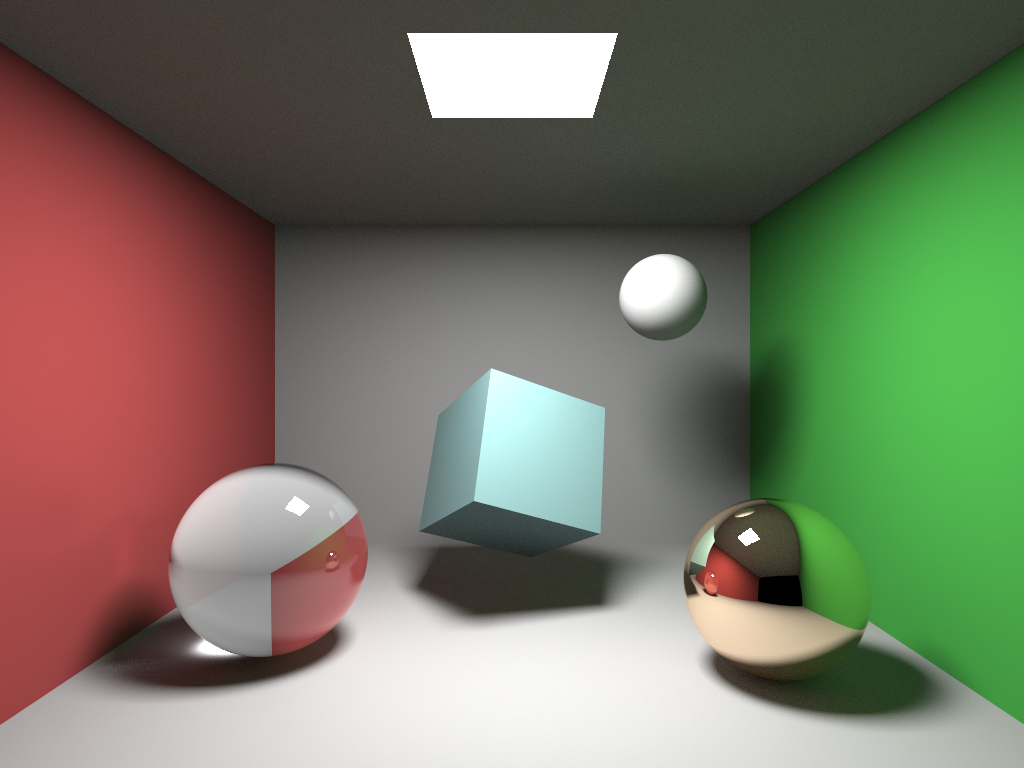
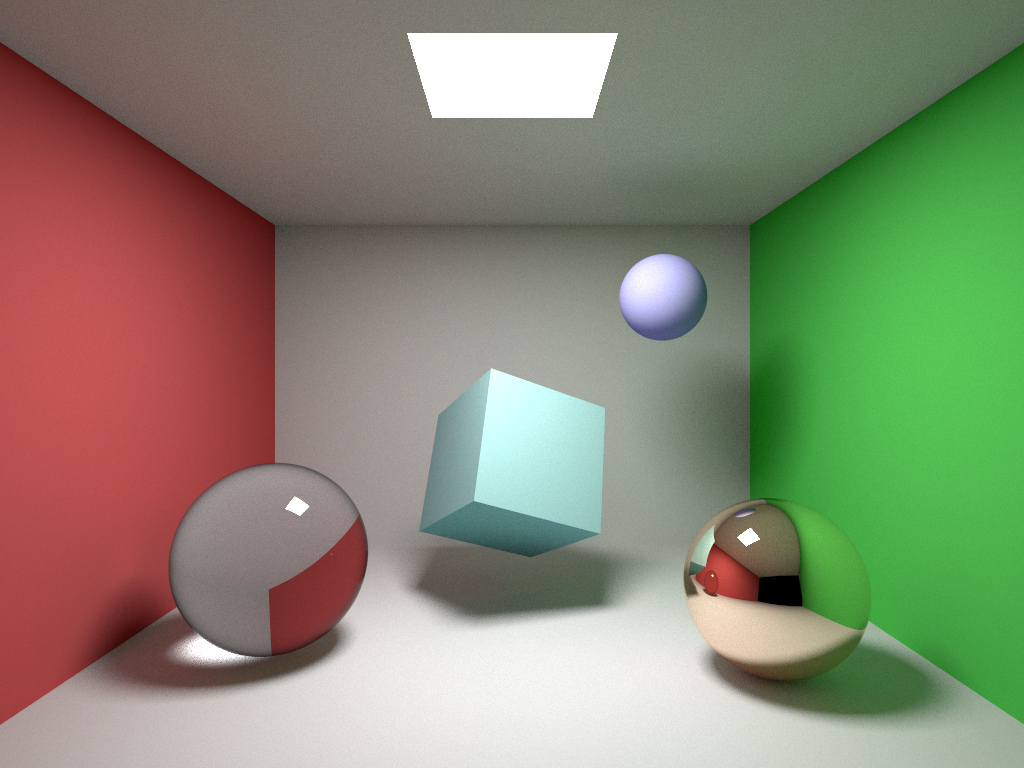
Trying not to multiply by importance. Just brdf.

diff --git a/src/Scene.cpp b/src/Scene.cpp
@@ -186,7 +186,7 @@ SpectralDistribution Scene::traceLocalDiffuseRay(
 					shadow_ray_id.radiosity *
 					cos_theta *
 					light_solid_angle
-					 * r.radiance; // Importance
+					; // Importance
 			}
 		}
 	}
@@ -251,7 +251,7 @@ SpectralDistribution Scene::traceIndirectDiffuseRay(
 		r.direction = random_direction;
 		//SpectralDistribution importance = brdf * cos_angle / g;
 		r.radiance *= M_PI * brdf; // Importance
-		L_indirect += traceRay(r, render_mode, iteration + 1) * r.radiance;
+		L_indirect += traceRay(r, render_mode, iteration + 1) * M_PI * brdf;
 	}
 	return L_indirect / n_samples;
 }
@@ -270,7 +270,7 @@ SpectralDistribution Scene::traceSpecularRay(
 		SpectralDistribution brdf = evaluatePerfectBRDF(id.material.color_specular * id.material.reflectance * id.material.specular_reflectance);
 		r.radiance *= brdf;
 		// Recursively trace the reflected ray
-		specular += traceRay(r, render_mode, iteration + 1) * r.radiance;
+		specular += traceRay(r, render_mode, iteration + 1) * brdf;
 	}
 	return specular;
 }
@@ -330,8 +330,8 @@ SpectralDistribution Scene::traceRefractedRay(
 		recursive_ray_refracted.radiance *= brdf_refractive;// (1 - R) * id.material.color_diffuse;
 
 		// Recursively trace the refracted rays
-		SpectralDistribution reflected_part = traceRay(recursive_ray_reflected, render_mode, iteration + 1) * recursive_ray_reflected.radiance;// * id.material.color_specular * R;
-		SpectralDistribution refracted_part = traceRay(recursive_ray_refracted, render_mode, iteration + 1) * recursive_ray_refracted.radiance;// (1 - R) * id.material.color_diffuse;
+		SpectralDistribution reflected_part = traceRay(recursive_ray_reflected, render_mode, iteration + 1) * brdf_specular;
+		SpectralDistribution refracted_part = traceRay(recursive_ray_refracted, render_mode, iteration + 1) * brdf_refractive;
 		return reflected_part + refracted_part;
 	}
 	else
@@ -340,10 +340,12 @@ SpectralDistribution Scene::traceRefractedRay(
 			recursive_ray.origin = r.origin + id.t * r.direction - offset;
 		else
 			recursive_ray.origin = r.origin + id.t * r.direction + offset;
+
+		SpectralDistribution brdf_specular = evaluatePerfectBRDF(id.material.color_specular * id.material.reflectance * id.material.specular_reflectance);
 		recursive_ray.direction = perfect_reflection;
-		recursive_ray.radiance *= id.material.color_specular;
+		recursive_ray.radiance *= brdf_specular;
 		// Recursively trace the reflected ray
-		return traceRay(recursive_ray, render_mode, iteration + 1) * id.material.color_specular;
+		return traceRay(recursive_ray, render_mode, iteration + 1) * brdf_specular;
 	}
 }
 

diff --git a/src/main.cpp b/src/main.cpp
@@ -40,10 +40,10 @@ int main(int argc, char const *argv[])
 
 	static const int WIDTH = 1024 / 8;
 	static const int HEIGHT = 768 / 8;
-	static const int SUB_SAMPLING_CAUSTICS = 10;
+	static const int SUB_SAMPLING_CAUSTICS = 1;
 	static const int SUB_SAMPLING_MONTE_CARLO = 10;
-	static const int SUB_SAMPLING_WHITTED_SPECULAR = 10;
-	static const int NUMBER_OF_PHOTONS_EMISSION = 200000;
+	static const int SUB_SAMPLING_WHITTED_SPECULAR = 1;
+	static const int NUMBER_OF_PHOTONS_EMISSION = 500000;
 
 	// The camera is used to cast appropriate initial rays
 	Camera c(
